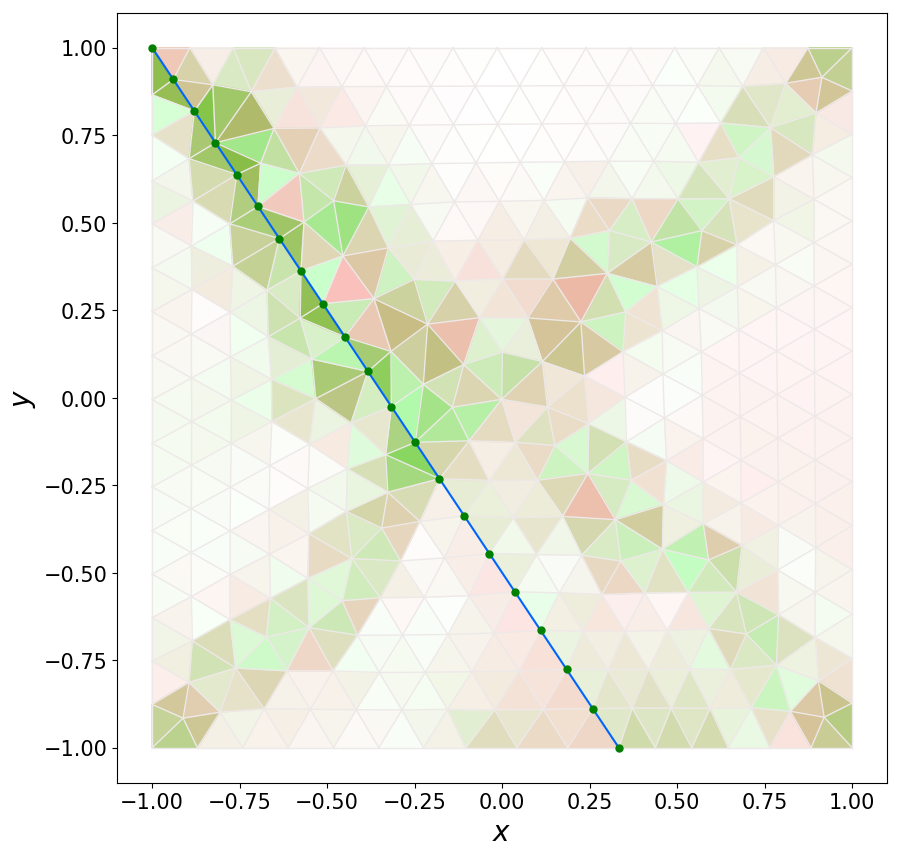
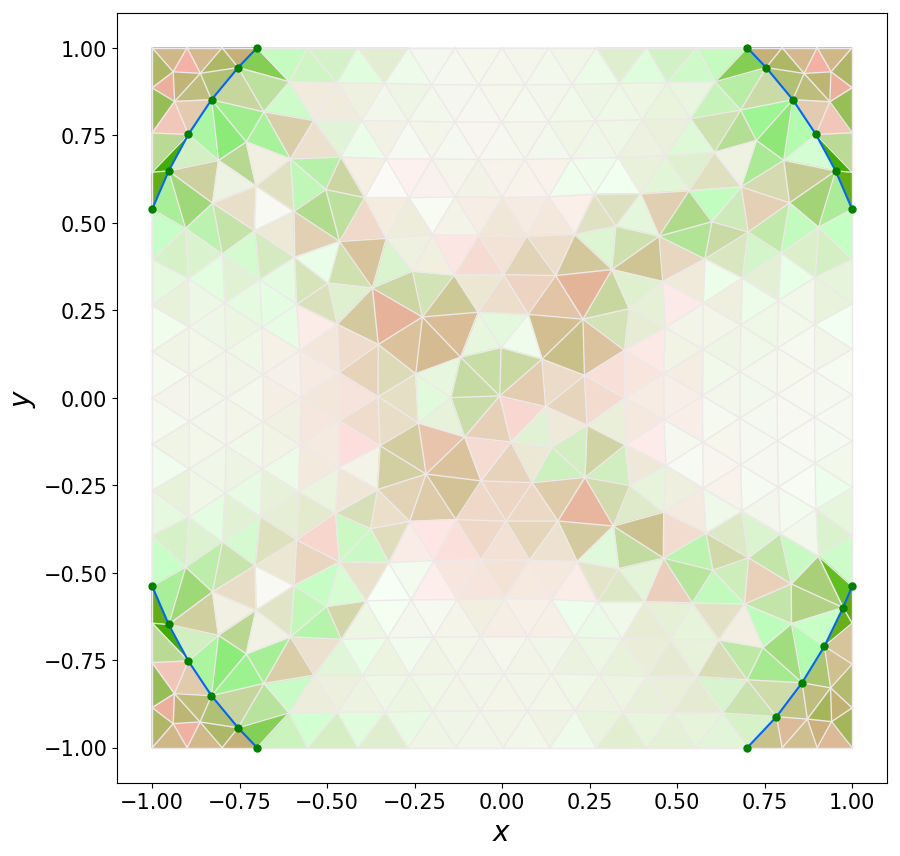
Added recursive algorithm to calculate lambda
Added a recursive algorithm to optimize the mesh. It recursively decreases the interval for lambda, for which the quality of the mesh is the best.

Changed region(s): [[0.1556, 0.0304, 0.9644, 0.8808], [0.5911, 0.729, 0.6222, 0.7593], [0.0933, 0.0304, 0.1244, 0.0607]]

diff --git a/FEM.py b/FEM.py
@@ -144,3 +144,107 @@ def qualitycomparisonplot(femstats, efrstats, lbda, mu, method):
             'figures_FEM/' + titles[i].replace(' ', '_') + '_l_' + str(lbda) + '_m_' + str(mu) + '_' + method + '.png')
         pyplot.close()
     return
+
+
+def qualitymeasure(old_mesh, new_mesh):
+    # calculates the quality of the new mesh compared to the old mesh:
+    # \sum_{elements} ((oldarea(e) - newarea(e)) / oldarea(e) * (oldskewness(e) - newskewness(e)) / oldskewness(e))^2
+    quality = 0
+    for i in range(len(old_mesh.elements)):
+        oldarea = old_mesh.elements[i].size
+        if old_mesh.elements[i].skewness <= 0.0000001:
+            oldskewness = new_mesh.elements[i].skewness / 10
+        else:
+            oldskewness = old_mesh.elements[i].skewness
+        newarea = new_mesh.elements[i].size
+        newskewness = new_mesh.elements[i].skewness
+        quality += ((oldarea - newarea) / oldarea * (oldskewness - newskewness) / oldskewness) ** 2
+    return quality
+
+
+def fem_meshfit(gridsize, threshold, lbda, mu, farr):
+    m = mesh(gridsize, threshold)
+    standardmesh = mesh(gridsize, threshold)
+    m.plot()
+    s = stiffness_matrix(m, lbda, mu)
+    q = np.zeros((2 * len(m.points), 1))
+    methodname = 'FEM'
+    newtriang = False
+    flip = False
+    simplepointrelax = False
+    simplegridtozeropoint = False
+    fixedpointrelaxation = False
+    eulerrelaxation = False
+    shortestpath = True
+    distplot = True
+    redistribute = True
+    m.initzeroinfo(farr[0])
+    m_fit = simplemeshfit(0.3 * gridsize, 'Shortest path fit with redistribution', gridsize, gridsize / 100, farr,
+                          newtriang, flip,
+                          distplot,
+                          simplepointrelax,
+                          simplegridtozeropoint, redistribute)
+    m_fit.plot()
+    u_x_fit = np.zeros(len(m.points))
+    u_y_fit = np.zeros(len(m.points))
+    for i in range(len(m.points)):
+        u_x_fit[i] = (m_fit.points[i].coordinates[0] - m.points[i].coordinates[0])
+        u_y_fit[i] = (m_fit.points[i].coordinates[1] - m.points[i].coordinates[1])
+    u_xy = np.hstack((u_x_fit, u_y_fit))
+    u = meshrelaxation(m, u_xy, lbda, mu)
+
+    for p in m.points:
+        p.coordinates[0] += float(u[p.index])
+        p.coordinates[1] += float(u[p.index + len(m.points)])
+    m.plot()
+    m.setupboundaryplist()
+    m.finallevelsetinfoupdate()
+    for i in m.points:
+        m.points[i.index].iszeropath = m_fit.points[i.index].iszeropath
+    for i in range(len(m.edges)):
+        m.edges[i].islevelset = m_fit.edges[i].islevelset
+        m.edges[i].iszeroedge = m_fit.edges[i].iszeroedge
+    for e in m.edges:
+        e.length = e.calclength()
+    for el in m.elements:
+        el.size = el.calcsize()
+        el.skewness = el.calcskew()
+
+    m.plotzeroz('figures_FEM/FEMfit.png', mode=2)
+    m_fit.plotzeroz('figures_FEM/FEMstartsituation.png', mode=2)
+    redistribute = False
+    eulerrelaxation = True
+    m_efr = simplemeshfit(0.3 * hstep, 'Shortest path fit with Euler forward relaxation', hstep, hstep / 100, farr,
+                          newtriang, flip, distplot, simplepointrelax, simplegridtozeropoint, redistribute)
+    femstats, efrstats = qualitycomparison(m, m_efr)
+    qualitycomparisonplot(femstats, efrstats, lbda, mu, farr[0].__name__)
+    quality = qualitymeasure(standardmesh, m)
+    print('Quality measure = ' + str(quality))
+    return m, quality
+
+
+def recursiveoptimisation(lower_boundary, upper_boundary, gridsize, threshold, farr, tol=1e-5, h=None, c=None, d=None,
+                          fc=None, fd=None):
+    invphi = (math.sqrt(5) - 1) / 2  # 1/phi
+    invphi2 = (3 - math.sqrt(5)) / 2  # 1/phi^2
+    (lower_boundary, upper_boundary) = (min(lower_boundary, upper_boundary), max(lower_boundary, upper_boundary))
+    if h is None:
+        h = upper_boundary - lower_boundary
+    if h <= tol:
+        return lower_boundary, upper_boundary
+    if c is None:
+        c = lower_boundary + invphi2 * h
+    if d is None:
+        d = lower_boundary + invphi * h
+    if fc is None:
+        mc, fc = fem_meshfit(gridsize, threshold, c, 1, farr)
+    if fd is None:
+        md, fd = fem_meshfit(gridsize, threshold, d, 1, farr)
+    if fc < fd:
+        print('lower boundary: ' + str(lower_boundary) + ' upper boundary: ' + str(d))
+        return recursiveoptimisation(lower_boundary, d, gridsize, threshold, farr, tol, h * invphi, c=None, fc=None,
+                                     d=c, fd=fc)
+    else:
+        print('lower boundary: ' + str(c) + ' upper boundary: ' + str(upper_boundary))
+        return recursiveoptimisation(c, upper_boundary, gridsize, threshold, farr, tol, h * invphi, c=d, fc=fd, d=None,
+                                     fd=None)

diff --git a/FEM_main.py b/FEM_main.py
@@ -1,64 +1,12 @@
 import FEM
-import numpy as np
-from main_programv2 import simplemeshfit, dumbbell, linear, circle, star, cos_times_sin
+from main_programv2 import dumbbell, linear, circle, star, cos_times_sin
 
 gridsize = 0.125
-hstep = gridsize
 threshold = 0.01
-lbda = 0.05
-mu = 1
-m = FEM.mesh(gridsize, threshold)
-m.plot()
-s = FEM.stiffness_matrix(m, lbda, mu)
-q = np.zeros((2 * len(m.points), 1))
-farr = [linear]
-methodname = 'FEM'
-newtriang = False
-flip = False
-simplepointrelax = False
-simplegridtozeropoint = False
-fixedpointrelaxation = False
-eulerrelaxation = False
-shortestpath = True
-distplot = True
-redistribute = True
-m.initzeroinfo(farr[0])
-m_fit = simplemeshfit(0.3 * hstep, methodname, hstep, hstep / 100, farr, newtriang, flip, distplot,
-                      simplepointrelax,
-                      simplegridtozeropoint, redistribute)
-m_fit.plot()
-u_x_fit = np.zeros(len(m.points))
-u_y_fit = np.zeros(len(m.points))
-for i in range(len(m.points)):
-    u_x_fit[i] = (m_fit.points[i].coordinates[0] - m.points[i].coordinates[0])
-    u_y_fit[i] = (m_fit.points[i].coordinates[1] - m.points[i].coordinates[1])
-u_xy = np.hstack((u_x_fit, u_y_fit))
-
-u = FEM.meshrelaxation(m, u_xy, lbda, mu)
-
-for p in m.points:
-    p.coordinates[0] += float(u[p.index])
-    p.coordinates[1] += float(u[p.index + len(m.points)])
-m.plot()
-m.setupboundaryplist()
-m.finallevelsetinfoupdate()
-for i in m.points:
-    m.points[i.index].iszeropath = m_fit.points[i.index].iszeropath
-for i in range(len(m.edges)):
-    m.edges[i].islevelset = m_fit.edges[i].islevelset
-    m.edges[i].iszeroedge = m_fit.edges[i].iszeroedge
-for e in m.edges:
-    e.length = e.calclength()
-for el in m.elements:
-    el.size = el.calcsize()
-    el.skewness = el.calcskew()
-
-m.plotzeroz('figures_FEM/FEMfit.png', mode=2)
-m_fit.plotzeroz('figures_FEM/FEMstartsituation.png', mode=2)
-
-redistribute = False
-eulerrelaxation = True
-m_efr = simplemeshfit(0.3 * hstep, 'Shortest path fit with Euler forward relaxation', hstep, hstep / 100, farr,
-                      newtriang, flip, distplot, simplepointrelax, simplegridtozeropoint, redistribute)
-femstats, efrstats = FEM.qualitycomparison(m, m_efr)
-FEM.qualitycomparisonplot(femstats, efrstats, lbda, mu, farr[0].__name__)
+farr = [circle]
+tol = 0.25
+lower_boundary = 0
+upper_boundary = 20
+lower_boundary, upper_boundary = FEM.recursiveoptimisation(lower_boundary, upper_boundary, gridsize, threshold, farr,
+                                                           tol)
+m, quality = FEM.fem_meshfit(gridsize, threshold, (lower_boundary + upper_boundary) / 2, 1, farr)
